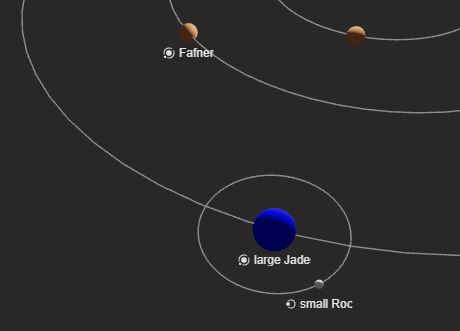
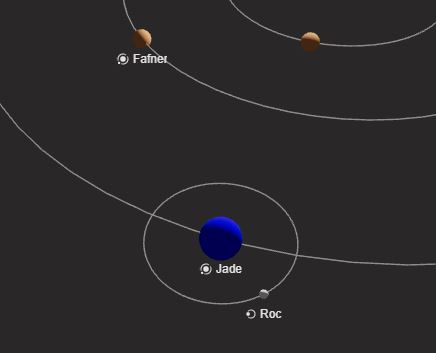
fix size in planet label

diff --git a/src/components/pages/mapEdit/utils/mapContentParser.ts b/src/components/pages/mapEdit/utils/mapContentParser.ts
@@ -179,7 +179,7 @@ function parsePlanetLine(line: string, lineNumber: number): [IPlanet | null, IPa
             orbitCenter: coordinates[1],
             size: (sizes?.[0]?.trim() as PlanetSize) ?? 'medium',
             color: (colors?.[0]) ? parseColor(colors[0].trim()) : '#E3A06D',
-            name: lineWithoutCoordinate.replace(COLOR_REG_EXP, '').trim(),
+            name: lineWithoutSize.replace(COLOR_REG_EXP, '').trim(),
         },
         null,
     ];
